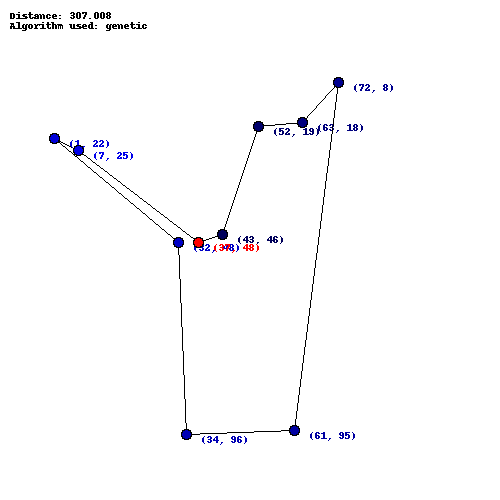
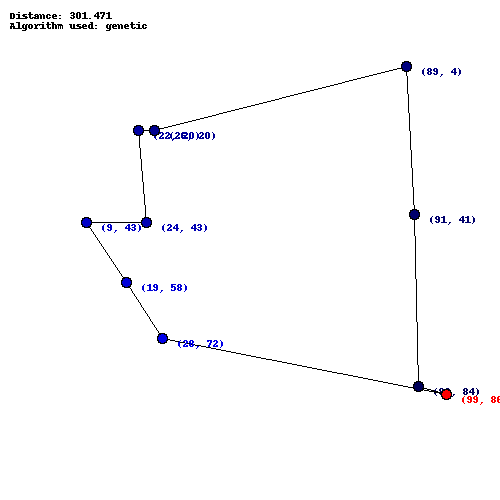
updated genetic man I am sick of genetic

diff --git a/tsp_genetic.py b/tsp_genetic.py
@@ -91,7 +91,7 @@ def tsp_genetic(num, sols, g, start_end, cities, locs):
             returns tuple"""
         p1 = None
         p2 = None
-        while p1 == p2:
+        while p1 is p2:
             p1 = weighted_random(solution_lst, g, initial)
             p2 = weighted_random(solution_lst, g, initial)
         return (p1, p2)
@@ -216,29 +216,21 @@ def tsp_genetic(num, sols, g, start_end, cities, locs):
         """ using helper functions, choose two parent solutions and crossover
             add child solution to solution_lst, increases size by one
             note - will add repeats"""
-        new_sol_lst = []
-        new_sol_lst.append(solution_lst[best_sol(solution_lst, g, initial)])
-        for i in range(cities - 1):
-            x = choose_parents(solution_lst, g, initial)
-#            a = crossover_greedy(x,cities)
-            a = crossover_OX(x, cities)
-            new_sol_lst.append(a)
-        return new_sol_lst
-        
-    """
-    def factorial (n):
-        if n < 2:
-            return 0
-        else:
-            return n * factorial(n-1)
+        child_pop = []
+        child_pop.append(solution_lst[best_sol(solution_lst, g, initial)])
 
-    def max_num(sols, cities):
-        limit = factorial(cities)
-        if (len(sols) < limit):
-            return False
-        else:
-            return True
-    """
+        # so that child population has the same number of solutions as the parent population
+        for i in range(len(solution_lst) - 1):
+            x = choose_parents(solution_lst, g, initial)
+            a = crossover_OX(x, cities)
+#            while a in child_pop:
+#                x = choose_parents(solution_lst, g, initial)
+#                a = crossover_greedy(x,cities)
+#                a = crossover_OX(x, cities)
+#                print "stalling ..."
+            child_pop.append(a)
+        return child_pop
+        
 
     global gen_file
     gen_file = open('genetic.txt','a')
